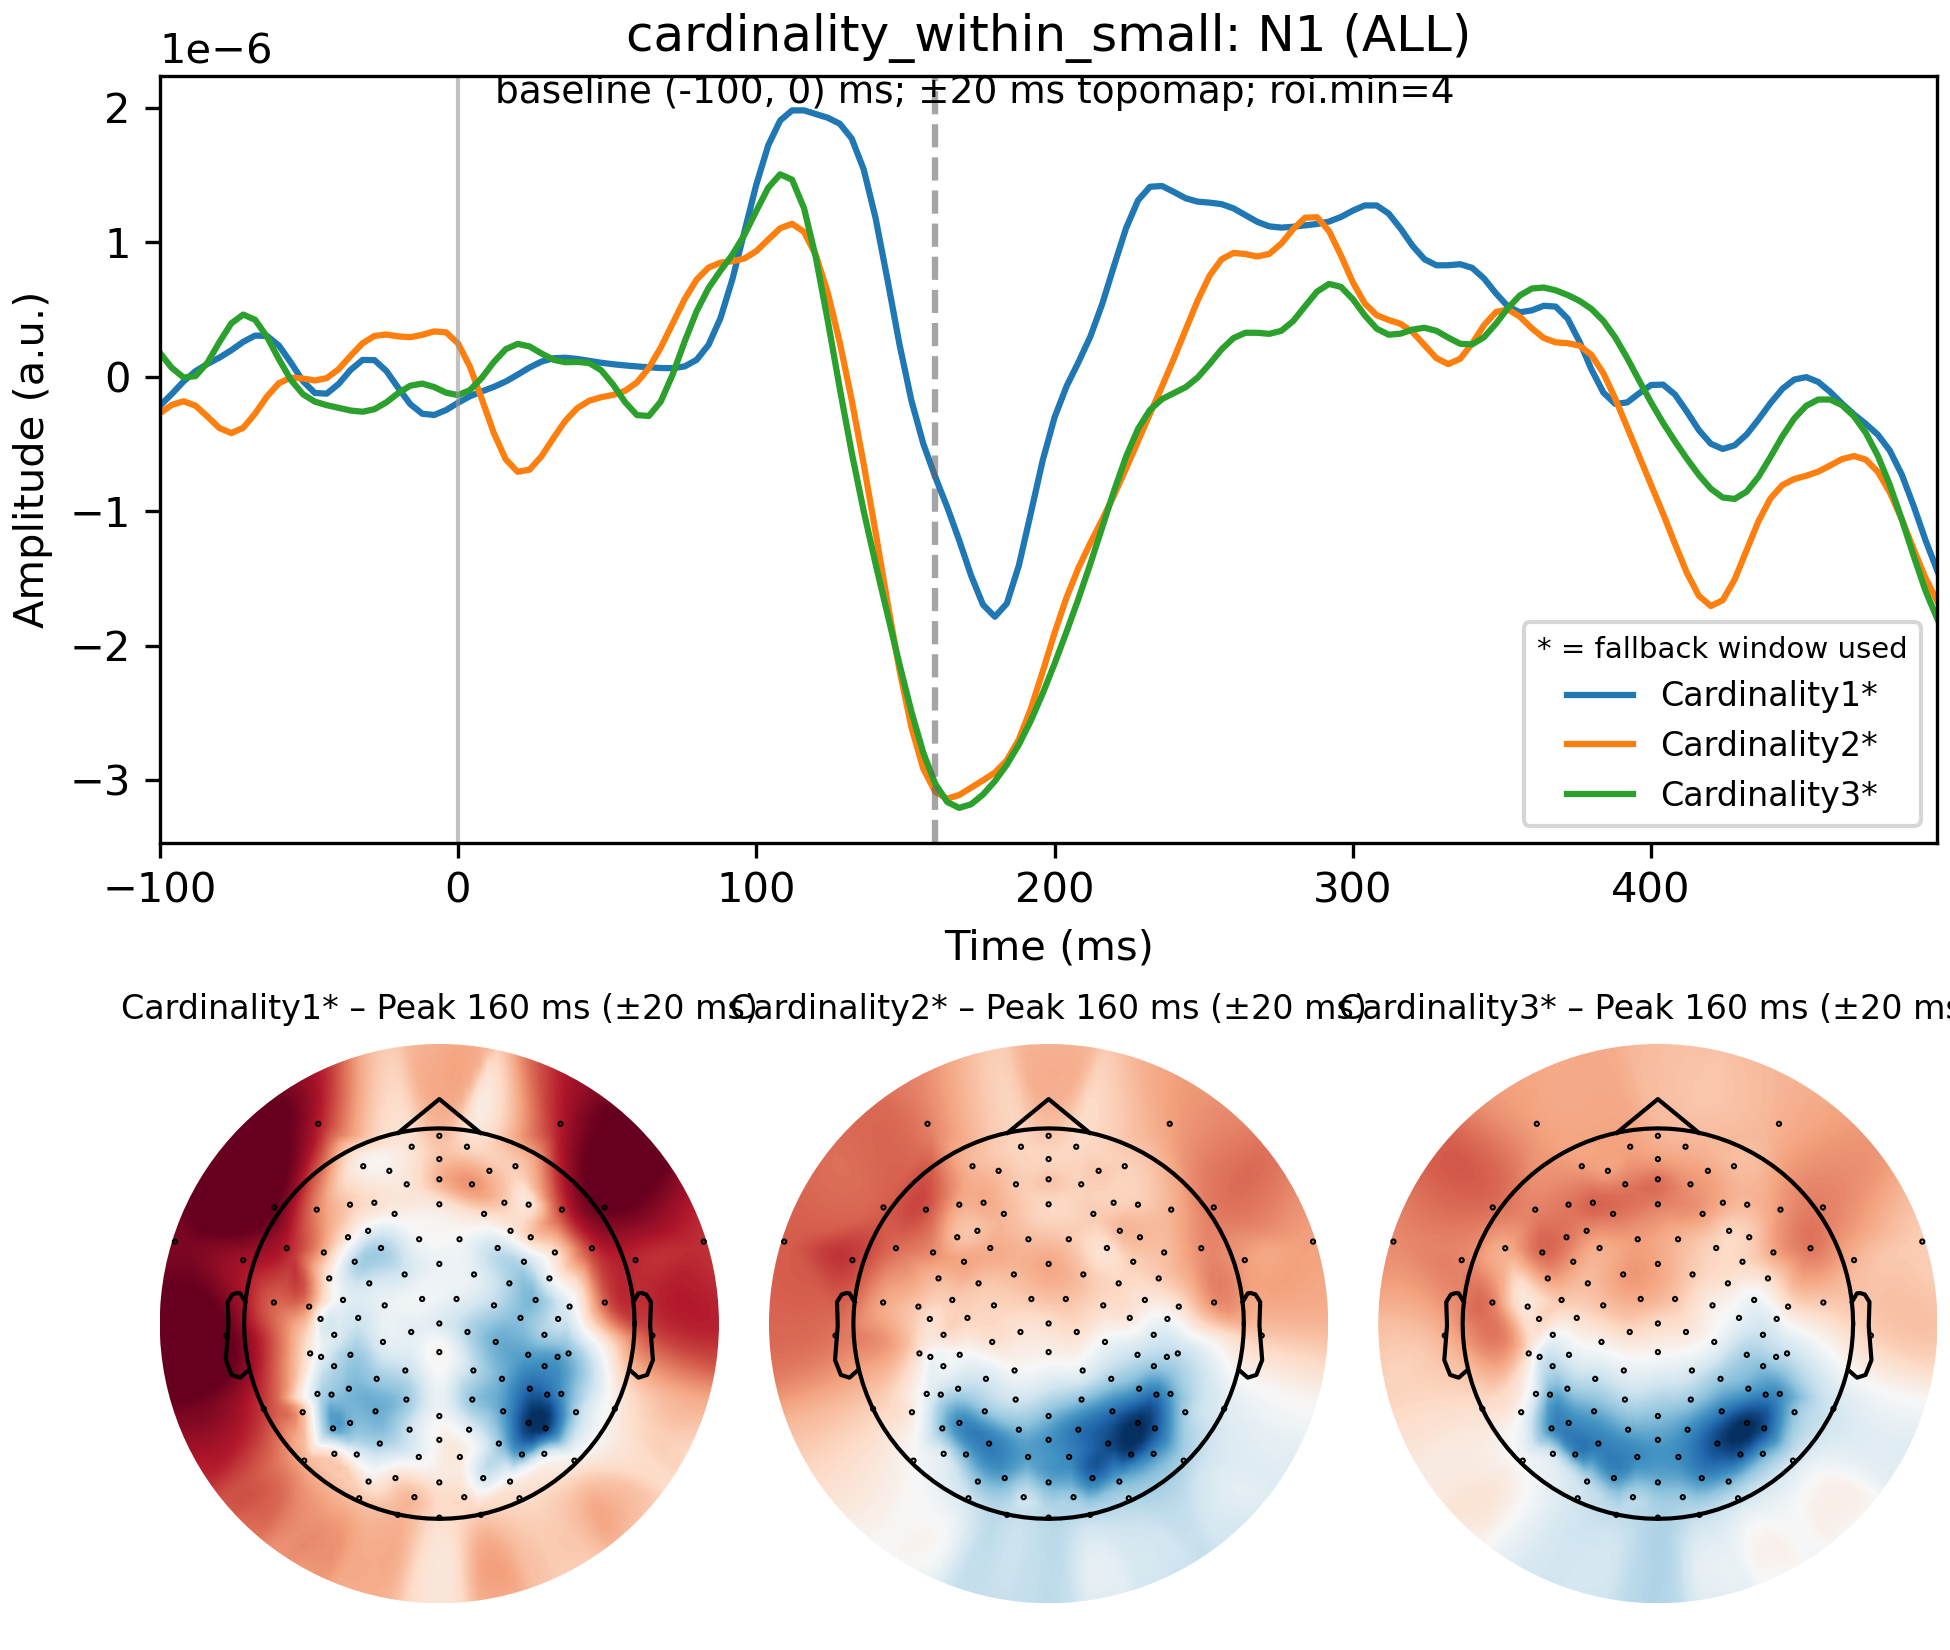
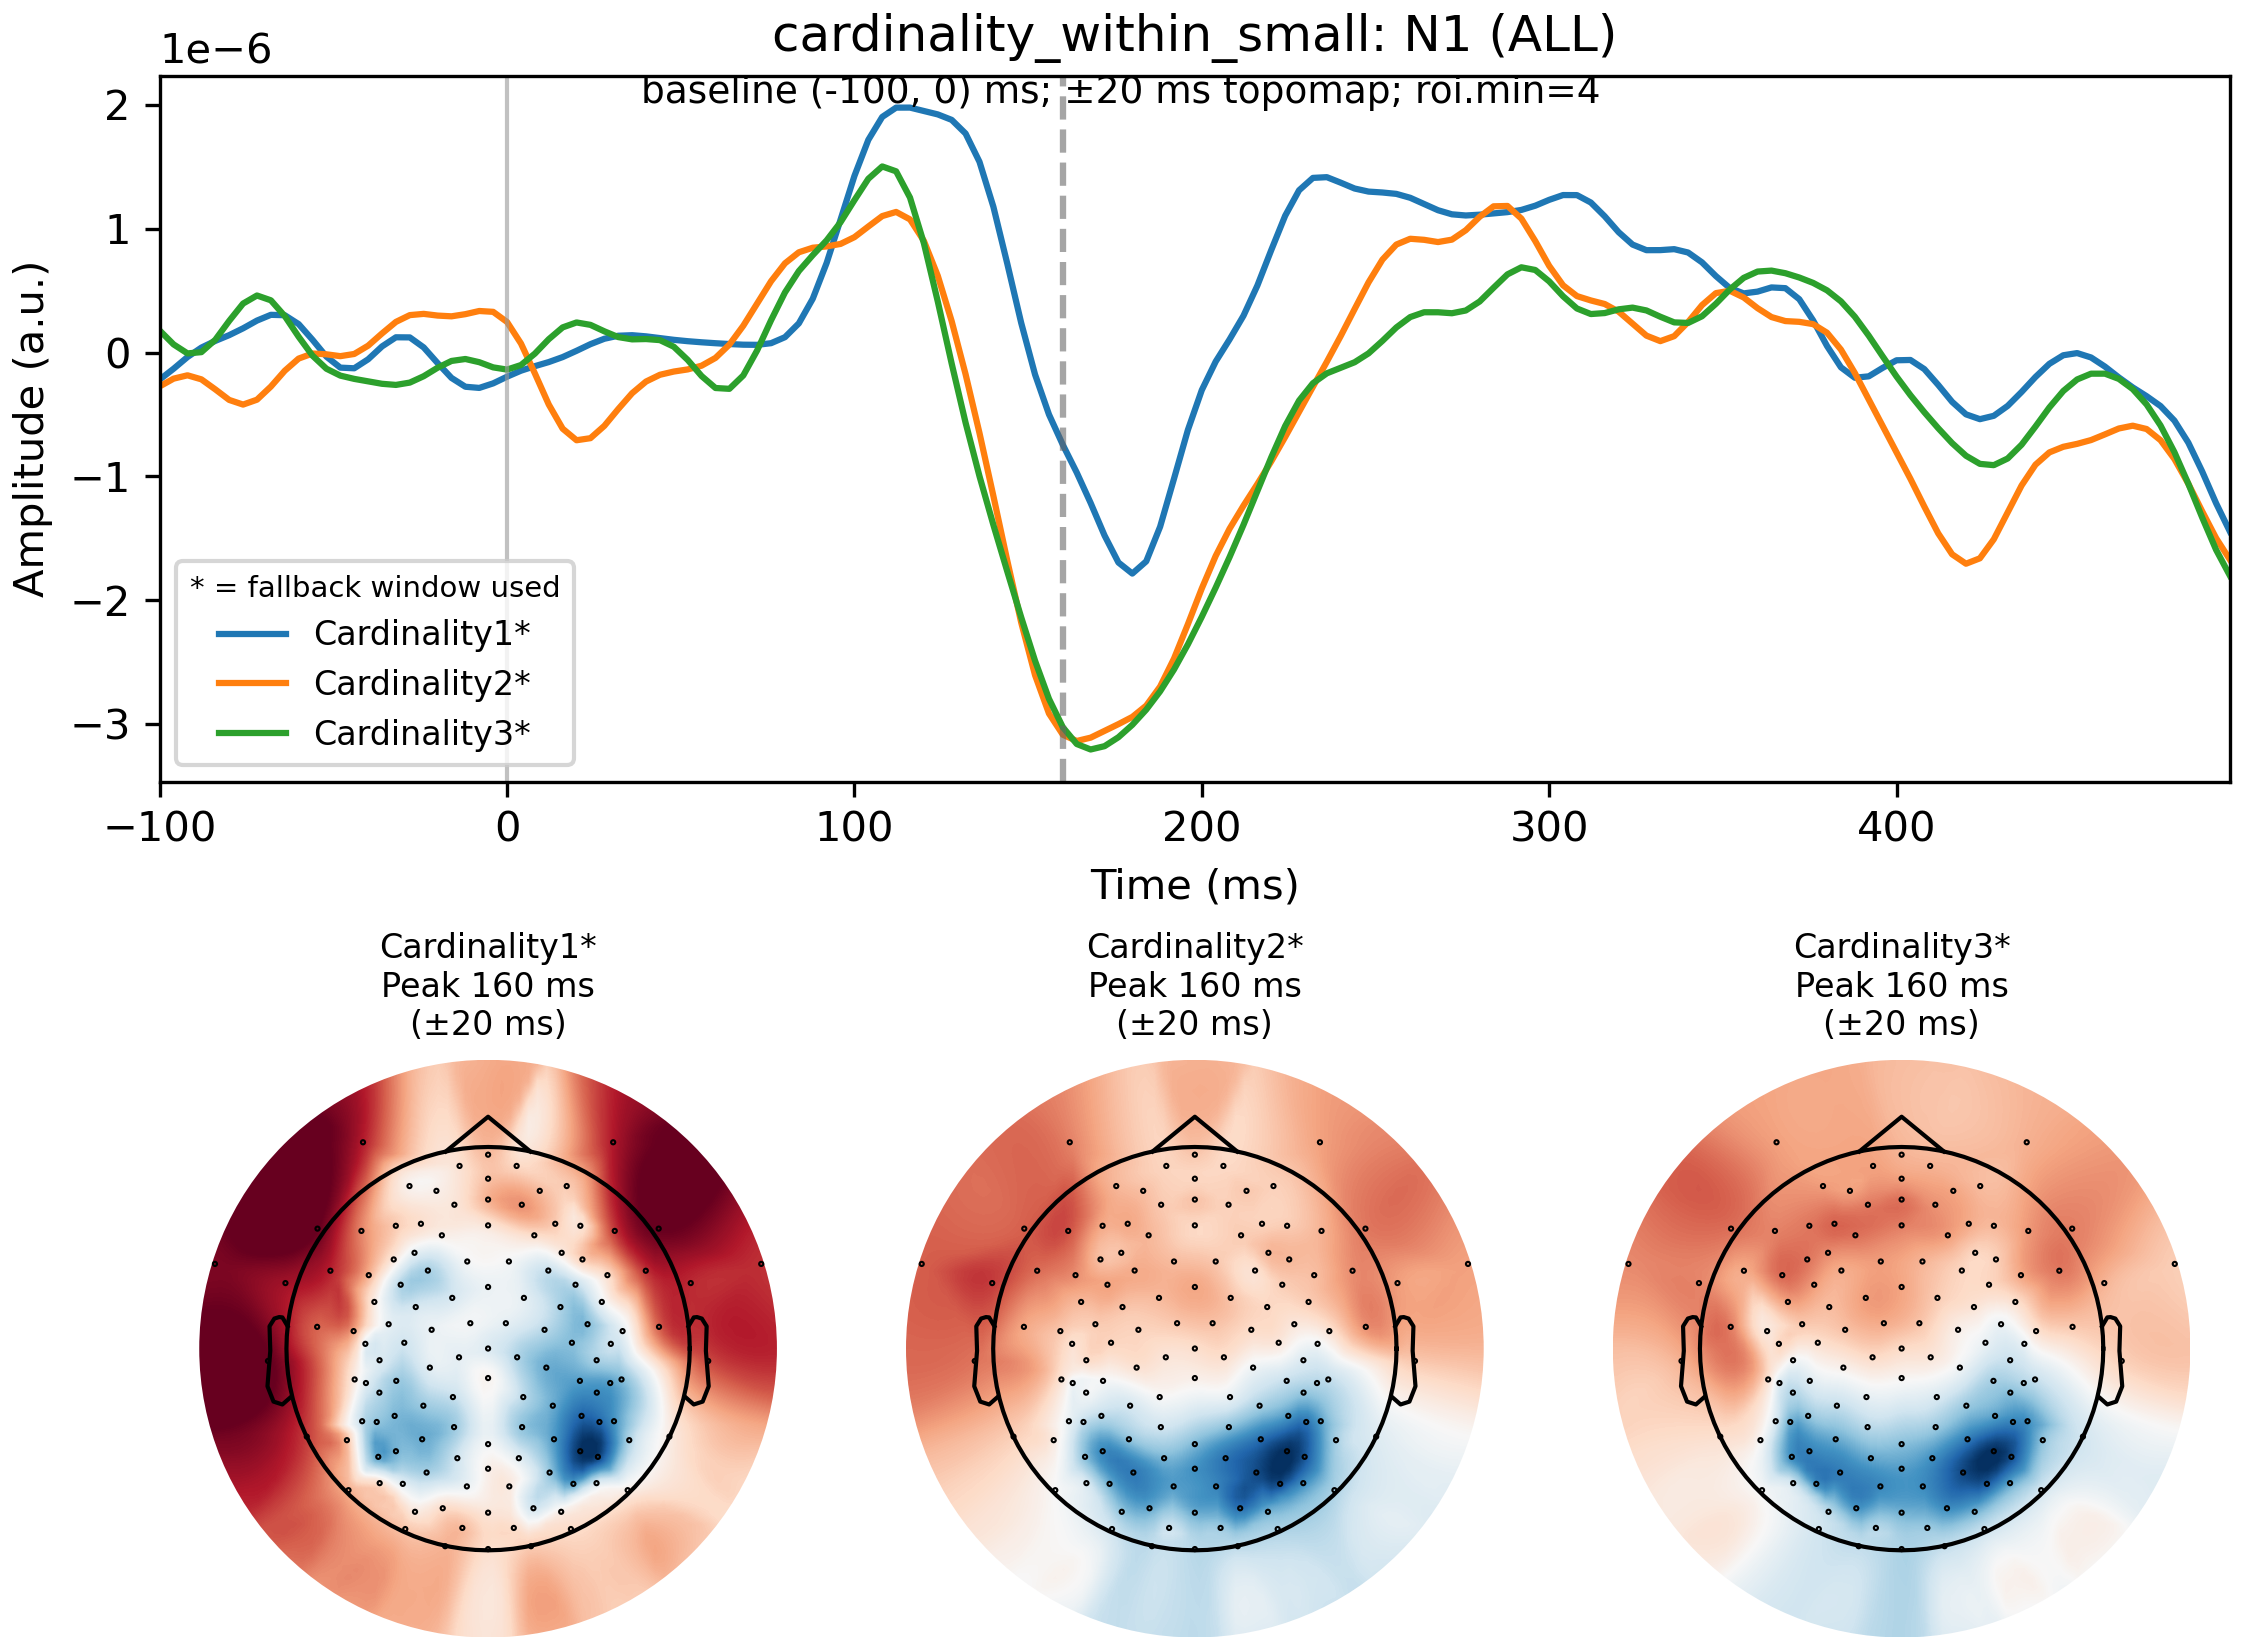
site: simplify hero text and remove duplicate header; refresh plots for all analyses

diff --git a/docs/index.md b/docs/index.md
@@ -5,8 +5,6 @@ title: EEG ERP Analyses
 
 # EEG ERP Analyses
 
-Welcome to the **EEG ERP Analysis Pipeline**.
-
 ## Analysis Gallery
 
 Click any thumbnail to view the full-size ERP plot with topographic maps.
